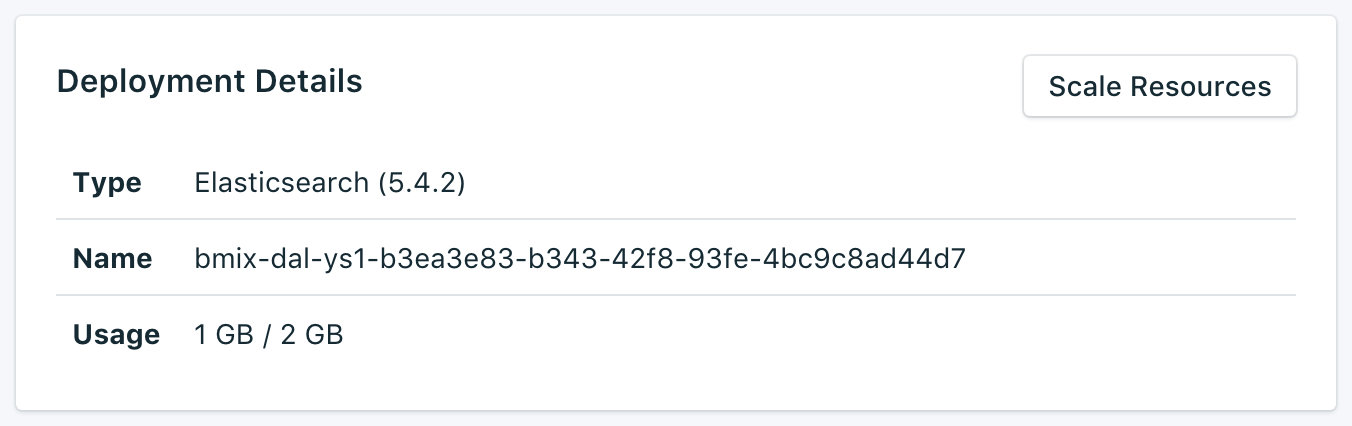
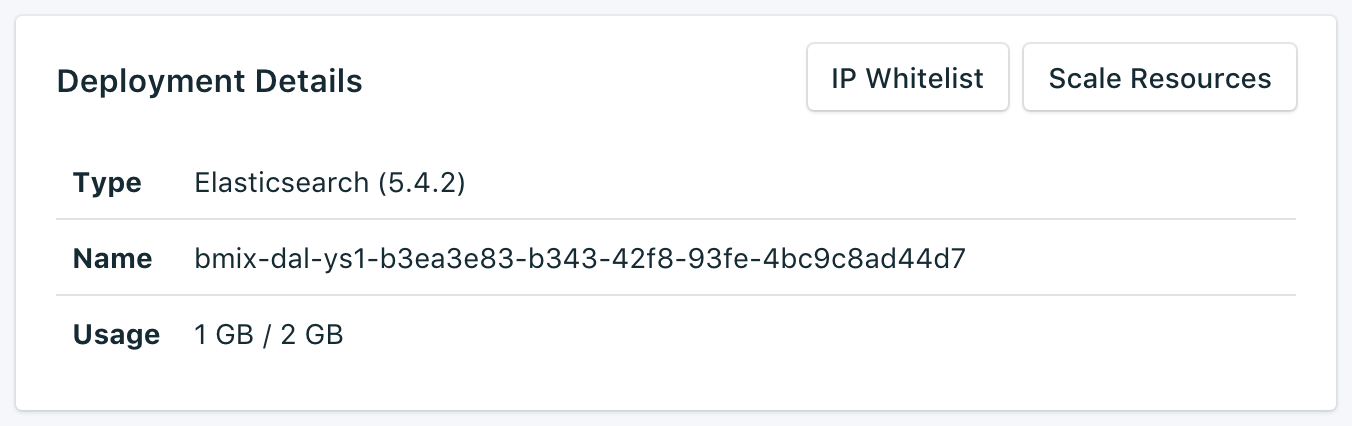
Oct 17 updates

Changed region(s): [[0.5902, 0.0915, 0.963, 0.2746], [0.5902, 0.1526, 0.7456, 0.2136]]

diff --git a/dashboard-backups.md b/dashboard-backups.md
@@ -11,29 +11,31 @@ lastupdated: "2017-07-13"
 {:codeblock: .codeblock}
 {:pre: .pre}
 
-# Backups
+# Managing Backups
 {: #backups}
 
-You can create and download backups from the *Manage* page of your service dashboard. Both scheduled and manual backups are available.
+You can create and download backups from the *Backups* page of your service dashboard. Both scheduled and manual backups are available.
 
 ## Viewing existing backups
 
 Daily backups of your database are automatically scheduled. To view your existing backups:
 
-1. Navigate to the _Manage_ page of your service Dashboard.
+1. Navigate to your service Dashboard.
 2. Click **Backups** in the tabs to open the _Backups_ page. A list of available backups is shown:
 
   ![Available backups](./images/elastic_search-backups-show.png "A list of available backups.")
 
+Click on the corresponding row to expand the options for any available backup.
+
+![Backup Options](./images/elastic_search-backups-options.png "Options for a backup.") 
 
 ## Creating a manual backup
 
 As well as scheduled backups you can create a backup manually. To create a manual backup, follow the steps to view existing backups, then click **Back up now** above the list of available backups. A message is displayed to let you know that a backup has been initiated, and a 'pending' backup is added to the list of available backups.
 
-## Downloading a backup
-
-To download a backup, follow the steps to view existing backups, then click **Download** in the corresponding row for the backup you want to download.
-
 ## Backup contents
 
 {{site.data.keyword.composeForElasticsearch}} backups are taken with the snapshot utility in the Elasticsearch API. The process is executed on the entire cluster in non-blocking fashion so all indexing and search operations can continue normally while it is running. A point-in-time backup is made at the moment when the snapshot is created.
+
+## Restoring a backup
+To restore a backup to a new service instance, follow the steps to view existing backups, then click in the corresponding row to expand the options for the backup you want to download. Click on the **Restore** button. A message is displayed to let you know that a restore has been initiated. The new service instance will automatically be named "elasticsearch-restore-[timestamp]", and appears on your dashboard when provisioning starts.

diff --git a/dashboard-whitelists.md b/dashboard-whitelists.md
@@ -1,0 +1,38 @@
+---
+
+Copyright:
+  Years: 2017
+lastupdated: "2017-10-16"
+---
+
+{:new_window: target="_blank"}
+{:shortdesc: .shortdesc}
+{:screen: .screen}
+{:codeblock: .codeblock}
+{:pre: .pre}
+{:tip: .tip}
+
+# Using Whitelists
+
+If you want to restrict access to your databases, you can whitelist specific ip addresses or ranges of ip addresses on your service. When there are no IP addresses in the whitelist, the whitelist is disabled and the deployment will accept connections from any system on the internet.
+
+![Whitelisting IPs](./images/elastic_search-whitelist-show.png "The whitelist fields.")
+
+## IP Addresses
+The *IP* field can take a single complete IPv4 address or IPv6 address with or without a netmask. Without a netmask, incoming connections must come from exactly that IP address. 
+
+Although the IP entry allows for IPv6, no Compose deployments are currently available to IPv6 networking and so these addresses cannot be filtered on.
+{: .tip}
+
+## Netmasks
+To allow a connection from a specified range of IP addresses, use a netmask. The IP address must be fully specified when using a netmask. That means entering, for example, `192.168.1.0/24` rather than `192.168.1/24`.
+
+## Description
+The *Description* can be any user-significant text for identifying the whitelist entry - a customer name, project identifier or employee number, for example. The description field is required.
+
+## Compose Services
+Whitelist entries are automatically added to Compose's servers to allow them to connect.
+
+## Removal
+To remove an IP address or netmask from the Whitelist, click the *Remove* entry displayed next to it.
+When all entries on the whitelist are removed, the whitelist will be disabled and all IP addresses will be accepted by the TCP access portals.

diff --git a/index.md b/index.md
@@ -2,7 +2,7 @@
 
 copyright:
   years: 2016,2017
-lastupdated: "2017-07-12"
+lastupdated: "2017-10-16"
 ---
 
 {:new_window: target="_blank"}
@@ -29,7 +29,7 @@ When you provision your {{site.data.keyword.composeForElasticsearch}} instance y
 
 ## Managing Compose for Elasticsearch
 
-You can manage your service from the service dashboard. Here you can find information about your Bluemix Compose database and how to connect to it. You can also manage your backups from the dashboard and allocated more resources for your service. For more information, see [Service Overview](./dashboard-overview.html), [Backups](./dashboard-backups.html), and [Scaling Resources](./dashboard-scaling-resources.html).
+You can manage your service from the service dashboard. Here you can find information about your Bluemix Compose database and how to connect to it. You can also manage your backups, allocate more resources for your service, and use whitelists to restrict access to your databases. For more information, see [Service Overview](./dashboard-overview.html), [Backups](./dashboard-backups.html), [Scaling Resources](./dashboard-scaling-resources.html), and [Whitelists](./dashboard-whitelists.html).
 
 ## Connecting to Compose for Elasticsearch
 

diff --git a/dashboard-overview.md b/dashboard-overview.md
@@ -11,7 +11,9 @@ lastupdated: "2017-09-07"
 {:codeblock: .codeblock}
 {:pre: .pre}
 
-# Service Overview
+# Dashboard Overview
+
+You can manage your {{site.data.keyword.composeForElasticsearch}} service from the service dashboard.
 
 The _Overview_ page shows you information about your Bluemix Compose database. The overview includes essential identifying information and current resource usage. You'll also find a section for connection strings that you can use with tools or make use of tools to connect to your database.
 
